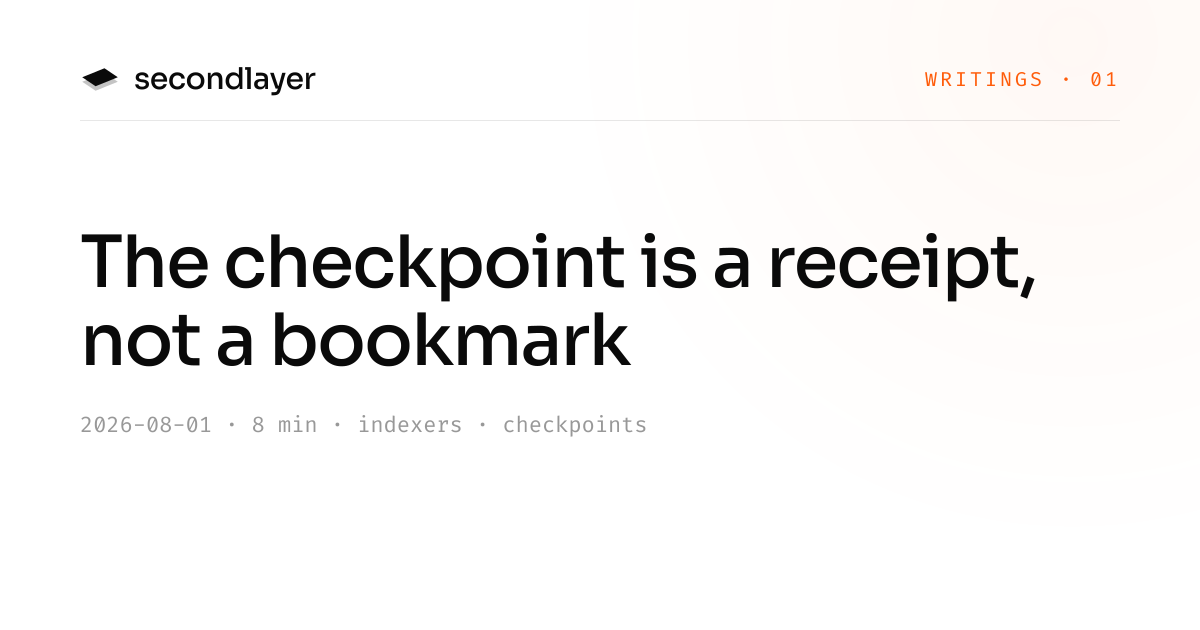
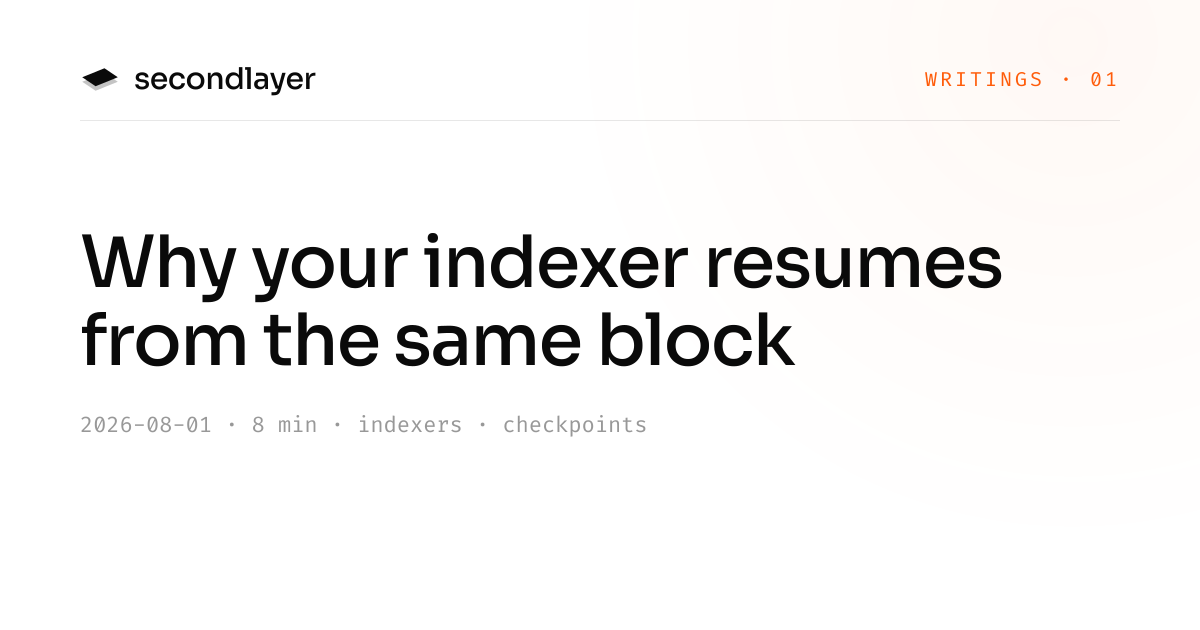
docs(writing): retitle the checkpoint post and strip its rhetorical tics

Changed region(s): [[0.0617, 0.3619, 0.8633, 0.6032]]

diff --git a/apps/web/src/lib/writing.ts b/apps/web/src/lib/writing.ts
@@ -37,8 +37,8 @@ export const POSTS: WritingPost[] = [
 	{
 		slug: "checkpoint-receipt-not-bookmark",
 		number: 1,
-		title: "The checkpoint is a receipt, not a bookmark",
-		dek: "Restart a consumer and it logs the same cursor it logged an hour ago, forty thousand blocks behind the tip. Nothing is stuck. Here's how to read every number your indexer reports, and why the design works this way.",
+		title: "Why your indexer resumes from the same block",
+		dek: "Restart a consumer and it logs the same cursor it logged an hour ago, forty thousand blocks behind the tip. It's caught up: the checkpoint marks the last row it kept, and the other numbers on the health endpoint measure something else.",
 		date: "2026-08-01",
 		tags: ["indexers", "checkpoints"],
 		readingTime: "8 min",

diff --git a/apps/web/src/app/(www)/writing/figures/page.tsx b/apps/web/src/app/(www)/writing/figures/page.tsx
@@ -1433,10 +1433,10 @@ export default function FigureLibraryPage() {
 					]}
 					reveal={
 						<>
-							<b>The same cursor.</b> The checkpoint is a receipt for the last
-							delivered row, and nothing was delivered while the contract was
-							quiet. The first poll re-verifies the empty range in one seek; the
-							scan position is recomputed, not stored.
+							The checkpoint comes back with the same cursor, because it is a
+							receipt for the last delivered row and nothing was delivered while
+							the contract was quiet. The first poll re-verifies the empty range
+							in one seek; the scan position is recomputed, not stored.
 						</>
 					}
 				/>

diff --git a/apps/web/src/app/(www)/writing/(post)/checkpoint-receipt-not-bookmark/selectivity-explorer.tsx b/apps/web/src/app/(www)/writing/(post)/checkpoint-receipt-not-bookmark/selectivity-explorer.tsx
@@ -25,7 +25,7 @@ function layout(selectivity: number) {
 }
 
 /**
- * Fig 5 of "The checkpoint is a receipt, not a bookmark": filter
+ * Fig 5 of "Why your indexer resumes from the same block": filter
  * selectivity splits/merges the receipt and bookmark pointers. The one
  * explorer of the post, composed from the library's D1 primitives.
  */
